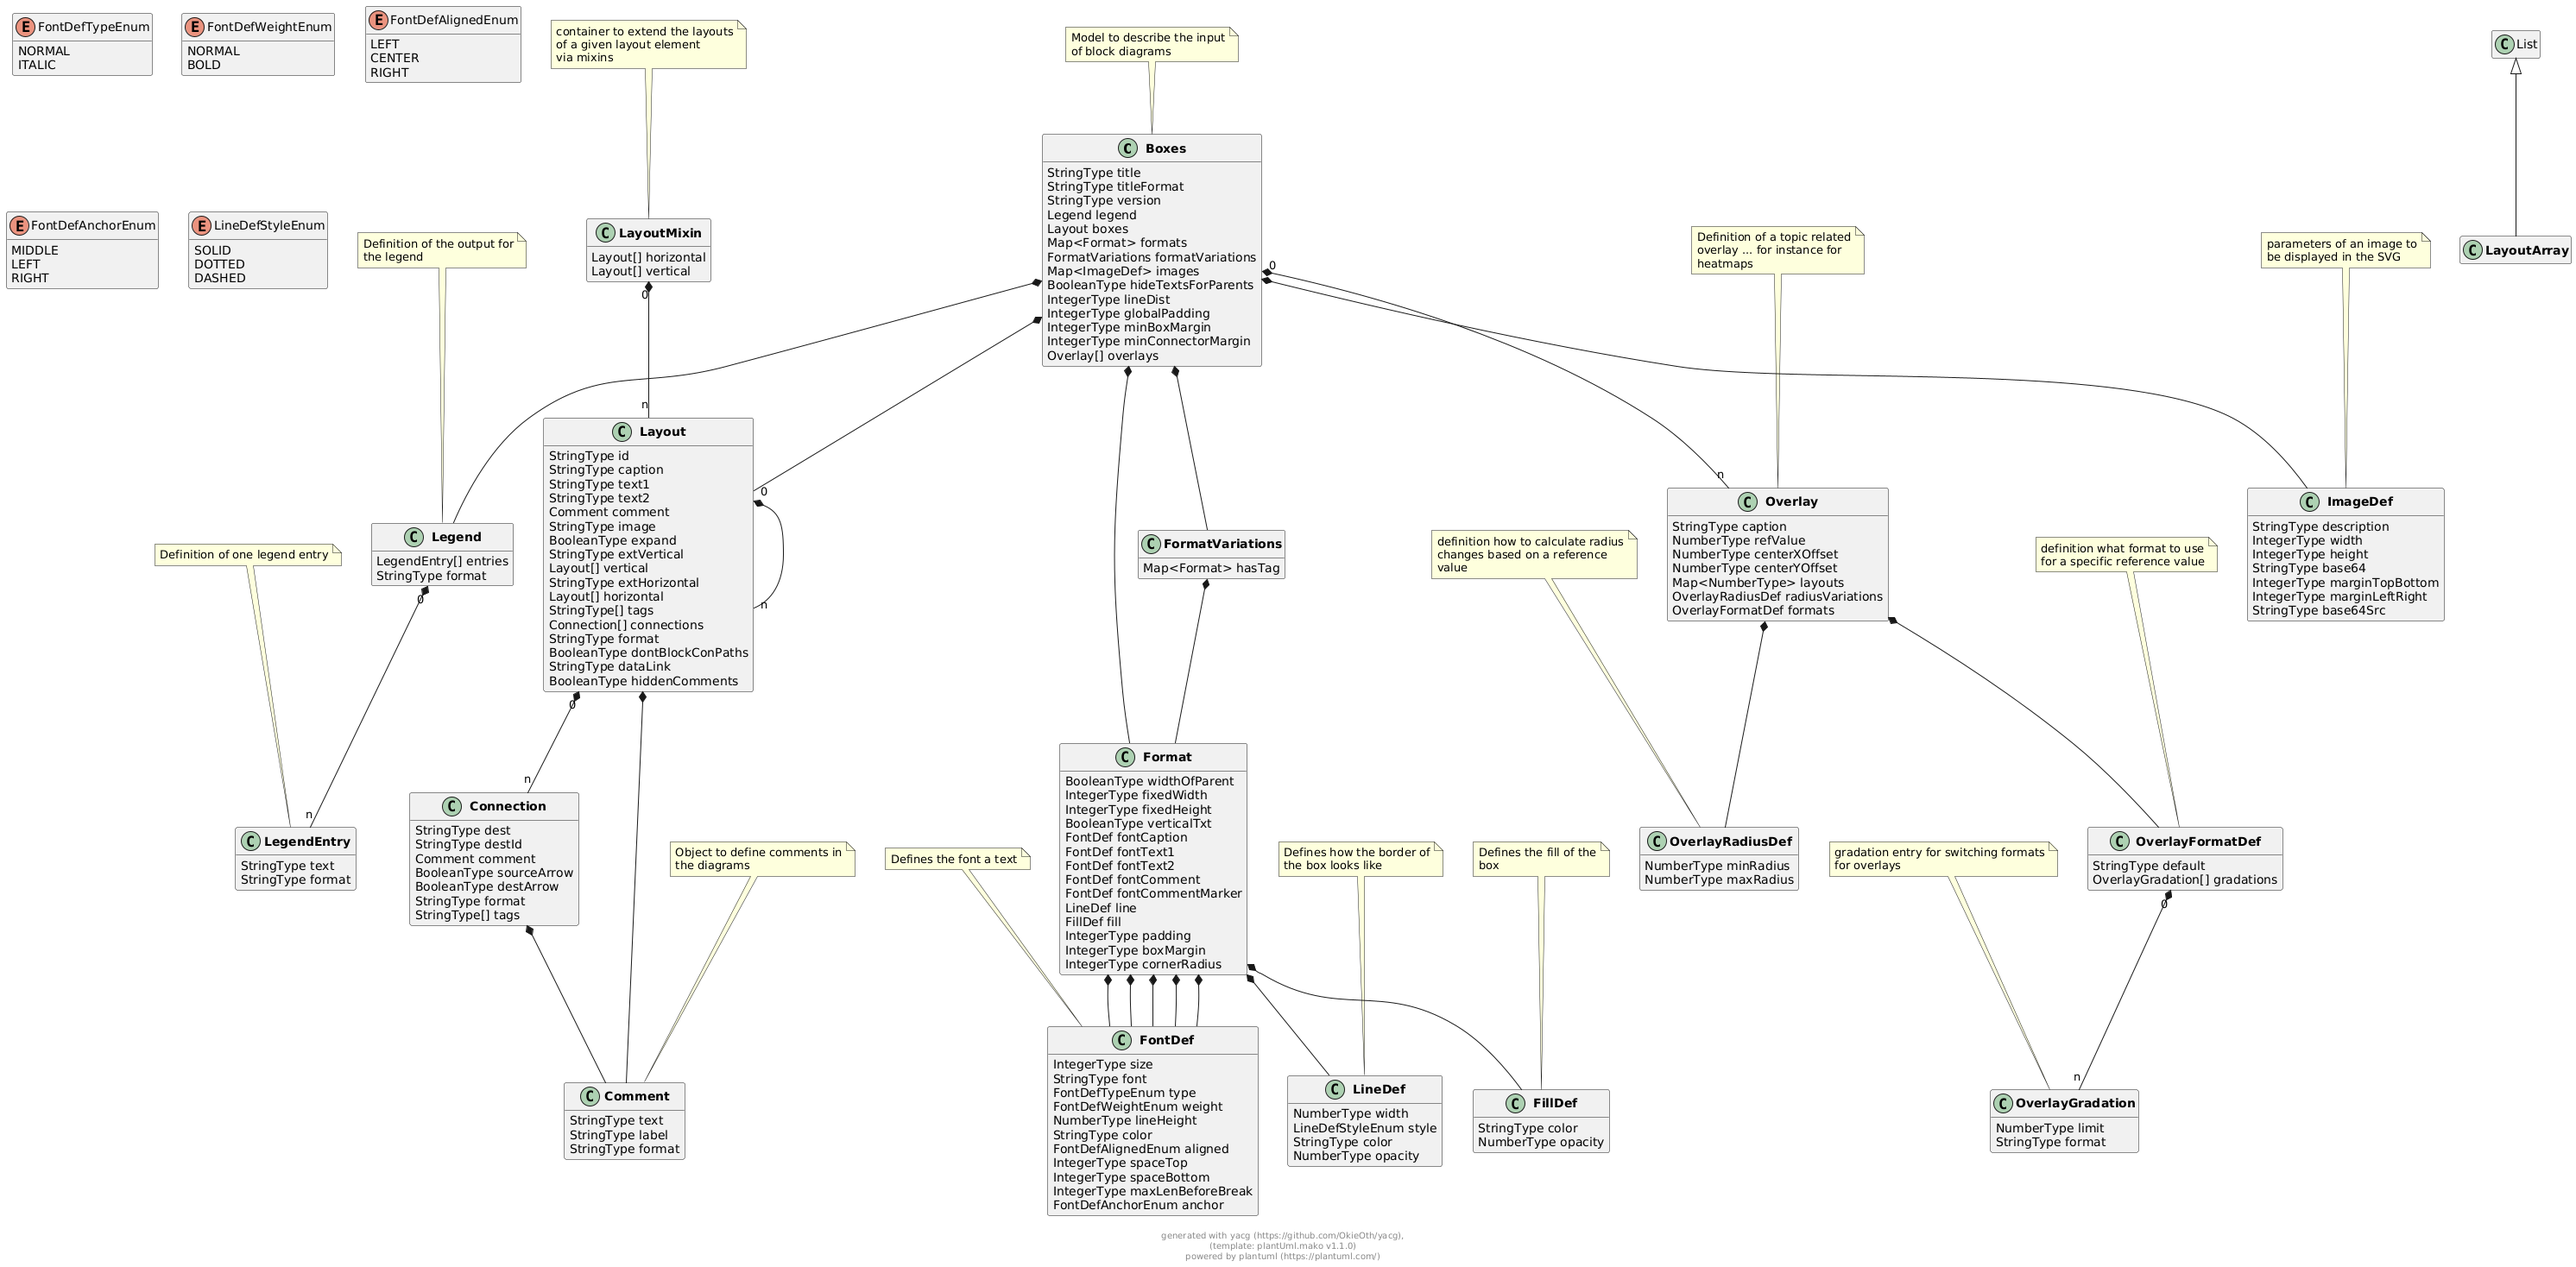
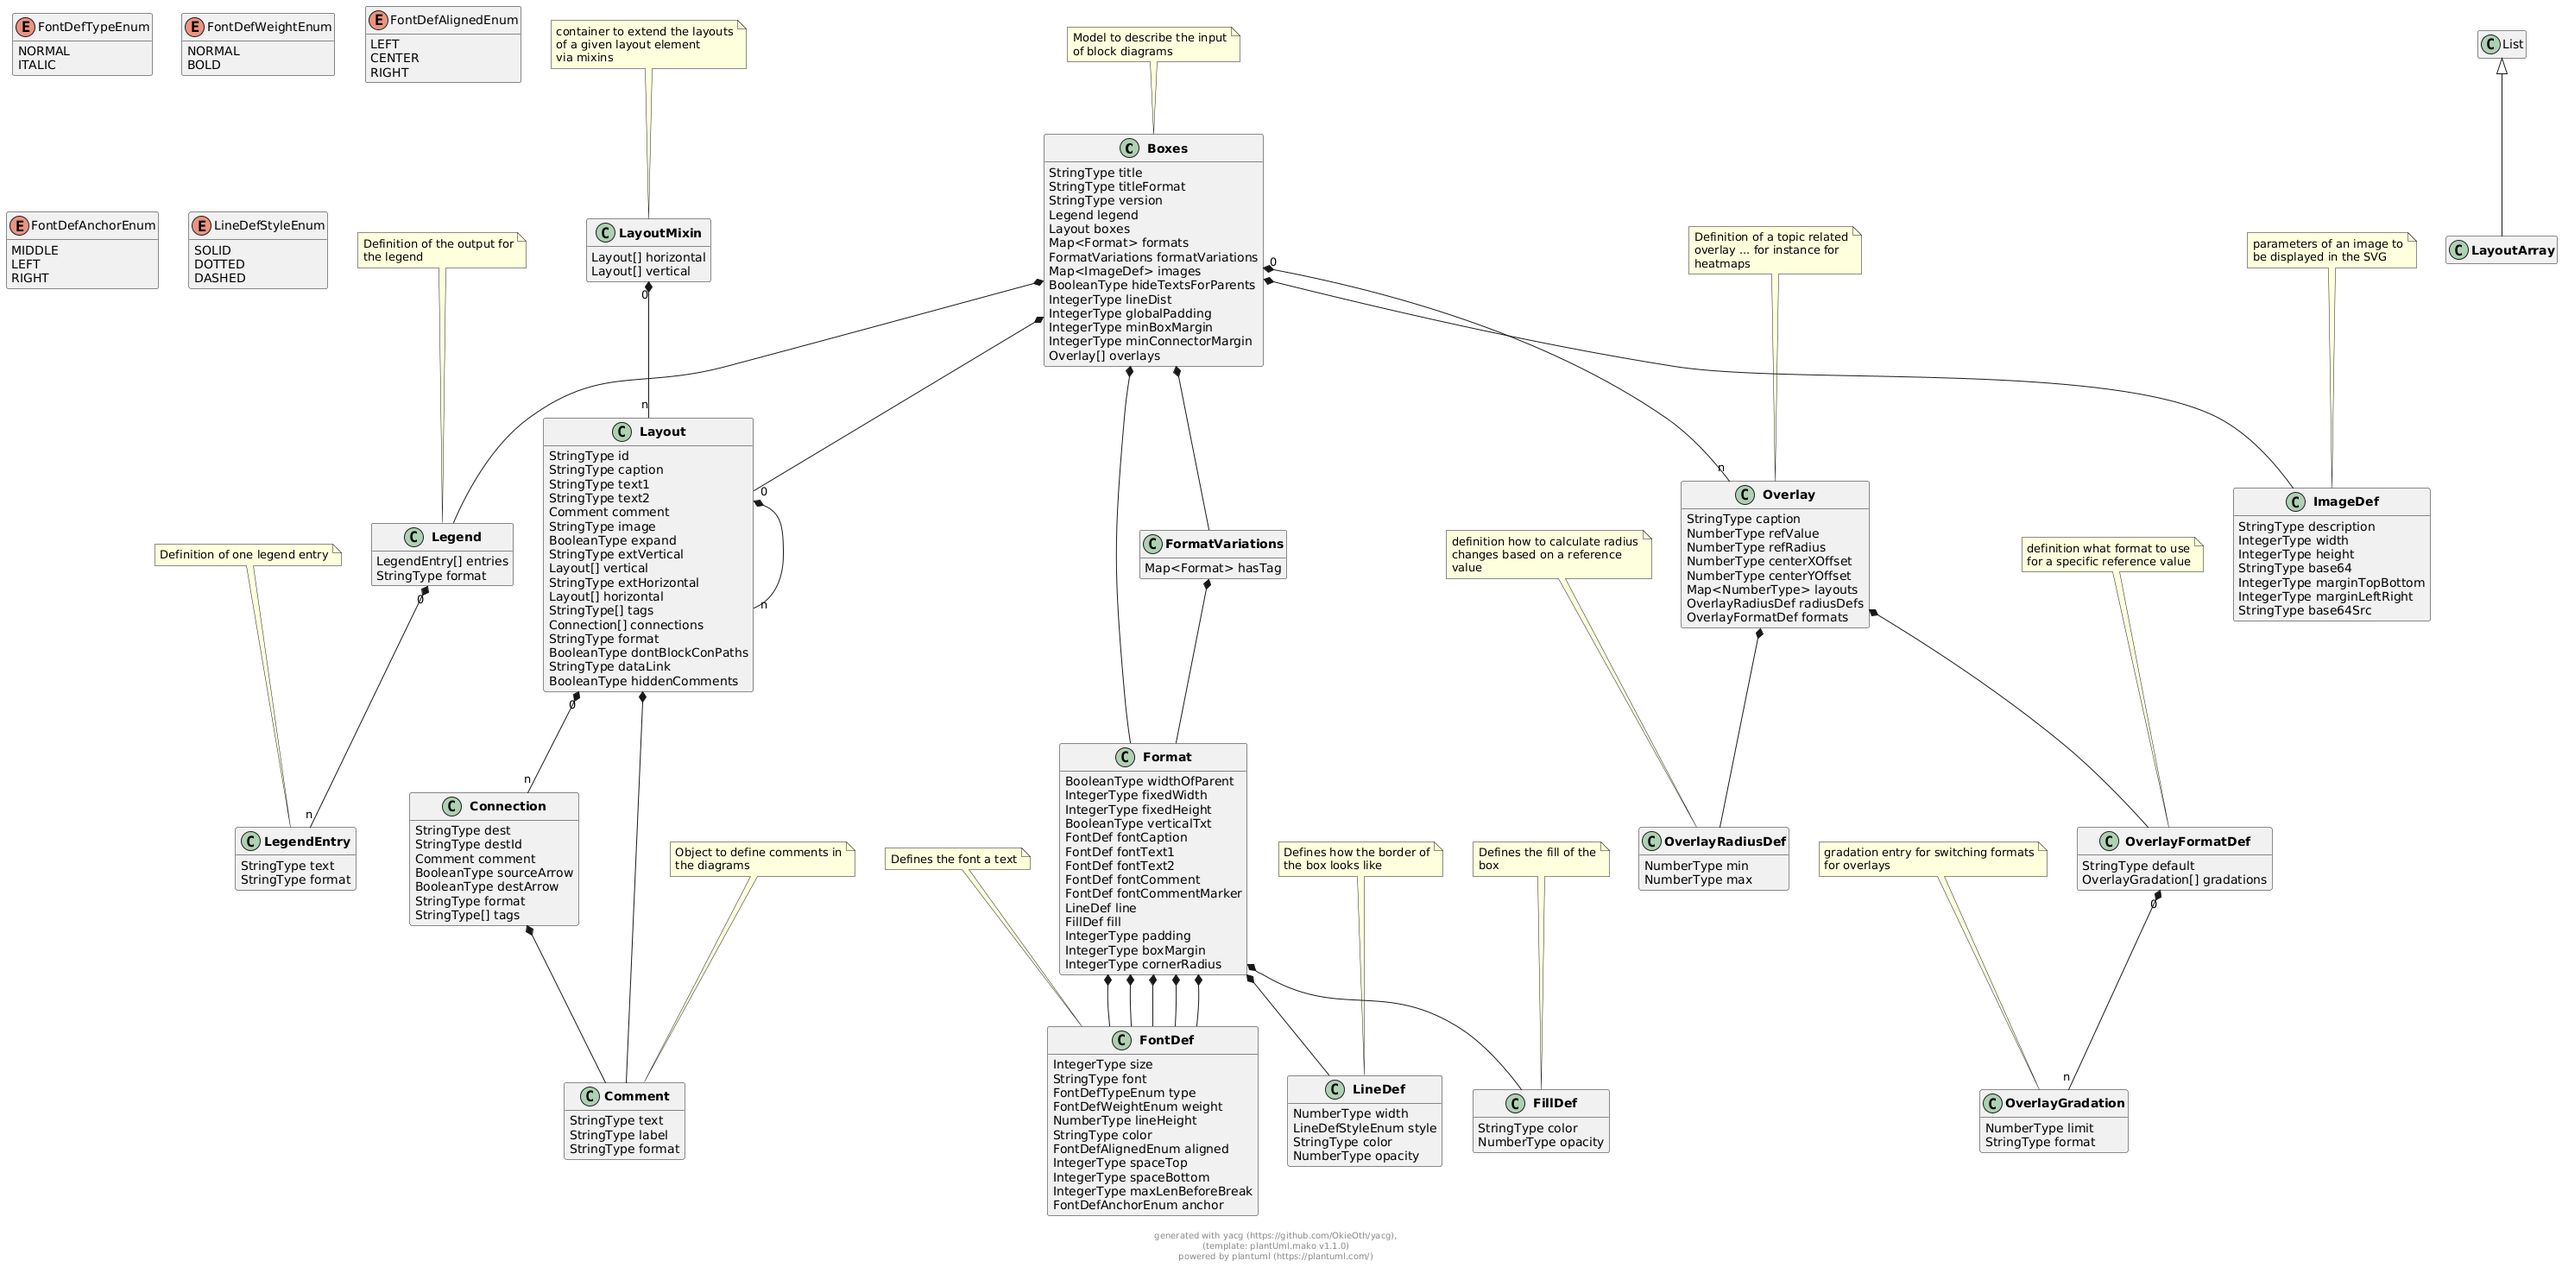
overlays wip: connection comment improvements - 1

diff --git a/pkg/types/boxes/comments.go b/pkg/types/boxes/comments.go
@@ -46,7 +46,7 @@ CONNECTIONS:
 					} else {
 						y = l.StartY + (diff / 4)
 					}
-					c := doc.newCommentContainer(c.Comment.Text, label, c.Comment.Format, x, y, false, dimensionsCalc, customMarker)
+					c := doc.newCommentContainer(c.Comment.Text, label, c.Comment.Format, x, y, false, dimensionsCalc, customMarker, &l.ConnectionIndex)
 					doc.Comments = append(doc.Comments, c)
 					continue CONNECTIONS
 				}
@@ -64,7 +64,7 @@ CONNECTIONS:
 					}
 					y := l.StartY
 
-					c := doc.newCommentContainer(c.Comment.Text, label, c.Comment.Format, x, y, false, dimensionsCalc, customMarker)
+					c := doc.newCommentContainer(c.Comment.Text, label, c.Comment.Format, x, y, false, dimensionsCalc, customMarker, &l.ConnectionIndex)
 					doc.Comments = append(doc.Comments, c)
 				}
 			}
@@ -119,7 +119,8 @@ func (doc *BoxesDocument) newCommentContainer(
 	x, y int,
 	moveMarker bool,
 	dimensionsCalc types.TextDimensionCalculator,
-	customMarker bool) CommentContainer {
+	customMarker bool,
+	connectionIndex *int) CommentContainer {
 	if moveMarker {
 		diff := doc.GlobalPadding + 2
 		x, y = x+diff, y+diff
@@ -147,6 +148,7 @@ func (doc *BoxesDocument) newCommentContainer(
 		MarkerTextWidth:  mw,
 		MarkerTextHeight: mh,
 		CustomMarker:     customMarker,
+		ConnectionIndex:  connectionIndex,
 	}
 }
 
@@ -164,7 +166,7 @@ func (doc *BoxesDocument) collectCommentsFromLayout(l *LayoutElement, dimensions
 	for i := range l.Comments {
 		comment := l.Comments[i]
 		label, customMarker := doc.newLabel(comment.Label)
-		c := doc.newCommentContainer(comment.Text, label, comment.Format, currentX, l.Y+4, false, dimensionsCalc, customMarker)
+		c := doc.newCommentContainer(comment.Text, label, comment.Format, currentX, l.Y+4, false, dimensionsCalc, customMarker, nil)
 		doc.Comments = append(doc.Comments, c)
 		currentX -= (2 * c.MarkerTextWidth) + doc.GlobalPadding + 2
 		if i > 7 {
@@ -177,7 +179,7 @@ func (doc *BoxesDocument) collectCommentsFromLayout(l *LayoutElement, dimensions
 			text = "Has comments in hidden childs"
 			doc.HasHiddenComments = true
 		}
-		c := doc.newCommentContainer(text, "...", nil, l.X, l.Y, false, dimensionsCalc, true)
+		c := doc.newCommentContainer(text, "...", nil, l.X, l.Y, false, dimensionsCalc, true, nil)
 		doc.Comments = append(doc.Comments, c)
 	}
 	doc.collectCommentsFromLayoutCont(l.Horizontal, dimensionsCalc)

diff --git a/pkg/types/boxes/boxes.go b/pkg/types/boxes/boxes.go
@@ -349,6 +349,9 @@ type Overlay struct {
     // Optional reference value that defines the reference value for this type of overlay
     RefValue float64  `yaml:"refValue"`
 
+    // radius for having a value of refValue
+    RefRadius *float64  `yaml:"refRadius,omitempty"`
+
     // in case of multiple overlays existing, this allows to define a percentage offset from the center-x of the related layout object
     CenterXOffset float64  `yaml:"centerXOffset"`
 
@@ -359,7 +362,7 @@ type Overlay struct {
     Layouts map[string]float64  `yaml:"layouts,omitempty"`
 
     // if this is configured the the radius for the layouts is in a percentage of the refValue
-    RadiusVariations *OverlayRadiusDef  `yaml:"radiusVariations,omitempty"`
+    RadiusDefs *OverlayRadiusDef  `yaml:"radiusDefs,omitempty"`
 
     Formats *OverlayFormatDef  `yaml:"formats,omitempty"`
 }
@@ -378,13 +381,14 @@ func CopyOverlay(src *Overlay) *Overlay {
     var ret Overlay
     ret.Caption = src.Caption
     ret.RefValue = src.RefValue
+    ret.RefRadius = src.RefRadius
     ret.CenterXOffset = src.CenterXOffset
     ret.CenterYOffset = src.CenterYOffset
     ret.Layouts = make(map[string]float64, 0)
     for k, v := range src.Layouts {
         ret.Layouts[k] = v
     }
-    ret.RadiusVariations = CopyOverlayRadiusDef(src.RadiusVariations)
+    ret.RadiusDefs = CopyOverlayRadiusDef(src.RadiusDefs)
     ret.Formats = CopyOverlayFormatDef(src.Formats)
 
     return &ret
@@ -524,10 +528,10 @@ func CopyLayoutMixin(src *LayoutMixin) *LayoutMixin {
 type OverlayRadiusDef struct {
 
     // minimal radius to use for the display
-    MinRadius float64  `yaml:"minRadius"`
+    Min float64  `yaml:"min"`
 
     // maximal radius to use for the display
-    MaxRadius float64  `yaml:"maxRadius"`
+    Max float64  `yaml:"max"`
 }
 
 
@@ -536,8 +540,8 @@ func CopyOverlayRadiusDef(src *OverlayRadiusDef) *OverlayRadiusDef {
         return nil
     }
     var ret OverlayRadiusDef
-    ret.MinRadius = src.MinRadius
-    ret.MaxRadius = src.MaxRadius
+    ret.Min = src.Min
+    ret.Max = src.Max
 
     return &ret
 }

diff --git a/pkg/types/boxes/boxesdoc.go b/pkg/types/boxes/boxesdoc.go
@@ -574,6 +574,9 @@ type CommentContainer struct {
 
     // true if a custom marker is used for this comment
     CustomMarker bool  `yaml:"customMarker"`
+
+    // in case this comment belongs to a connection, is here the connectionId stored
+    ConnectionIndex *int  `yaml:"connectionIndex,omitempty"`
 }
 
 
@@ -592,6 +595,7 @@ func CopyCommentContainer(src *CommentContainer) *CommentContainer {
     ret.TextWidth = src.TextWidth
     ret.TextHeight = src.TextHeight
     ret.CustomMarker = src.CustomMarker
+    ret.ConnectionIndex = src.ConnectionIndex
 
     return &ret
 }
@@ -620,7 +624,7 @@ type DocOverlay struct {
     Layouts map[string]OverlayEntry  `yaml:"layouts,omitempty"`
 
     // if this is configured the the radius for the layouts is in a percentage of the refValue
-    RadiusVariations *OverlayRadiusDef  `yaml:"radiusVariations,omitempty"`
+    RadiusDefs *OverlayRadiusDef  `yaml:"radiusDefs,omitempty"`
 
     Formats *OverlayFormatDef  `yaml:"formats,omitempty"`
 }
@@ -645,7 +649,7 @@ func CopyDocOverlay(src *DocOverlay) *DocOverlay {
     for k, v := range src.Layouts {
         ret.Layouts[k] = v
     }
-    ret.RadiusVariations = CopyOverlayRadiusDef(src.RadiusVariations)
+    ret.RadiusDefs = CopyOverlayRadiusDef(src.RadiusDefs)
     ret.Formats = CopyOverlayFormatDef(src.Formats)
 
     return &ret
@@ -863,7 +867,7 @@ type OverlayEntry struct {
 
     Value float64  `yaml:"value"`
 
-    Radius *float64  `yaml:"radius,omitempty"`
+    Radius float64  `yaml:"radius"`
 
     X int  `yaml:"x"`
 

diff --git a/pkg/boxesimpl/boxesdocfactory.go b/pkg/boxesimpl/boxesdocfactory.go
@@ -415,8 +415,32 @@ func initOverlays(b *boxes.Boxes, doc *boxes.BoxesDocument) error {
 			newOverlay.RefValue = o.RefValue
 			newOverlay.CenterXOffset = o.CenterXOffset
 			newOverlay.CenterYOffset = o.CenterYOffset
-			newOverlay.Formats = o.Formats
-			newOverlay.RadiusVariations = o.RadiusVariations
+			if o.Formats != nil {
+				newOverlay.Formats = o.Formats
+				slices.SortFunc(newOverlay.Formats.Gradations, func(c1, c2 boxes.OverlayGradation) int {
+					if c1.Limit == c2.Limit {
+						return 0
+					} else if c1.Limit < c2.Limit {
+						return -1
+					} else {
+						return 1
+					}
+				})
+			} else {
+				newOverlay.Formats = boxes.NewOverlayFormatDef()
+			}
+			max := float64(doc.Width / 4)
+			min := float64(0)
+			if o.RadiusDefs != nil && o.RadiusDefs.Max > 0 {
+				max = o.RadiusDefs.Max
+			}
+			if o.RadiusDefs != nil && o.RadiusDefs.Min > 0 {
+				max = o.RadiusDefs.Min
+			}
+			newOverlay.RadiusDefs = &boxes.OverlayRadiusDef{
+				Min: min,
+				Max: max, // max radius is when not set one quarter of the document width
+			}
 			for k, v := range o.Layouts {
 				newOverlay.Layouts[k] = boxes.OverlayEntry{
 					Value: v,

diff --git a/pkg/svg/svg.go b/pkg/svg/svg.go
@@ -310,6 +310,10 @@ func (svg *SVG) Circle(x int, y int, r int, s ...string) {
 	svg.printf(`<circle cx="%d" cy="%d" r="%d" %s`, x, y, r, endstyle(s, emptyclose))
 }
 
+func (svg *SVG) CircleWithClass(x int, y int, r int, className string, s ...string) {
+	svg.printf(`<circle class="%s" cx="%d" cy="%d" r="%d" %s`, className, x, y, r, endstyle(s, emptyclose))
+}
+
 // Ellipse centered at x,y, centered at x,y with radii w, and h, with optional style.
 // Standard Reference: http://www.w3.org/TR/SVG11/shapes.html#EllipseElement
 func (svg *SVG) Ellipse(x int, y int, w int, h int, s ...string) {
@@ -471,6 +475,12 @@ func (svg *SVG) TextWithId(id string, x int, y int, t string, s ...string) {
 
 func (svg *SVG) TextWithIdAndClass(id string, x int, y int, t, class string, s ...string) {
 	svg.printf(`<text id="%s" %s class="%s" %s`, id, loc(x, y), class, endstyle(s, ">"))
+	xml.Escape(svg.Writer, []byte(t))
+	svg.println(`</text>`)
+}
+
+func (svg *SVG) TextWithClass(x int, y int, t, class string, s ...string) {
+	svg.printf(`<text %s class="%s" %s`, loc(x, y), class, endstyle(s, ">"))
 	xml.Escape(svg.Writer, []byte(t))
 	svg.println(`</text>`)
 }

diff --git a/pkg/svgdrawing/svgdrawing.go b/pkg/svgdrawing/svgdrawing.go
@@ -575,11 +575,20 @@ func (d *SvgDrawing) DrawCircleWithBorder(x, y, radius int, fill *types.FillDef,
 }
 
 func (d *SvgDrawing) DrawCircleWithBorderAndText(text string, x, y, radius int, fill *types.FillDef, line *types.LineDef, font *types.FontDef) error {
+	return d.DrawCircleWithBorderTextAndClass(text, x, y, radius, fill, line, font, "")
+}
+
+func (d *SvgDrawing) DrawCircleWithBorderTextAndClass(text string, x, y, radius int, fill *types.FillDef, line *types.LineDef, font *types.FontDef, className string) error {
 	attr := d.getCircleStyle(fill, line)
-	d.canvas.Circle(x, y, radius, attr)
 	textFormat := d.textFormat(font)
 	textFormat += ";dominant-baseline: middle;"
-	d.canvas.Text(x, y, text, textFormat)
+	if className != "" {
+		d.canvas.CircleWithClass(x, y, radius, className, attr)
+		d.canvas.TextWithClass(x, y, text, className, textFormat)
+	} else {
+		d.canvas.Circle(x, y, radius, attr)
+		d.canvas.Text(x, y, text, textFormat)
+	}
 	return nil
 }
 

diff --git a/pkg/types/boxes/boxestype_impl.go b/pkg/types/boxes/boxestype_impl.go
@@ -523,7 +523,12 @@ func (doc *BoxesDocument) DrawComments(drawing types.Drawing, c types.TextDimens
 func (doc *BoxesDocument) drawCommentMarkers(drawing types.Drawing) error {
 	for i := range doc.Comments {
 		c := doc.Comments[i]
-		drawing.DrawCircleWithBorderAndText(c.Label, c.MarkerX, c.MarkerY, doc.CommentMarkerRadius, &c.Format.Fill, &c.Format.Line, &c.Format.FontMarker)
+		if c.ConnectionIndex != nil {
+			className := fmt.Sprintf("conLine_%d", *c.ConnectionIndex)
+			drawing.DrawCircleWithBorderTextAndClass(c.Label, c.MarkerX, c.MarkerY, doc.CommentMarkerRadius, &c.Format.Fill, &c.Format.Line, &c.Format.FontMarker, className)
+		} else {
+			drawing.DrawCircleWithBorderAndText(c.Label, c.MarkerX, c.MarkerY, doc.CommentMarkerRadius, &c.Format.Fill, &c.Format.Line, &c.Format.FontMarker)
+		}
 	}
 	return nil
 }

diff --git a/pkg/boxesimpl/boxesimpl.go b/pkg/boxesimpl/boxesimpl.go
@@ -46,6 +46,7 @@ func DrawBoxesFromFile(inputFile, outputFile string) error {
 	doc.ConnectBoxes()
 	doc.AdjustDocHeightTLegend(textDimensionCalulator)
 	doc.IncludeComments(textDimensionCalulator)
+	doc.IncludeOverlays(textDimensionCalulator)
 	output, err := os.Create(outputFile)
 	svgdrawing := svgdrawing.NewDrawing(output)
 	svgdrawing.Start(doc.Title, doc.Height, doc.Width)
@@ -308,6 +309,7 @@ func DrawBoxesFilteredComments(layout boxes.Boxes, defaultDepth int, expanded, b
 	doc.ConnectBoxes()
 	doc.AdjustDocHeightTLegend(textDimensionCalulator)
 	doc.IncludeComments(textDimensionCalulator)
+	doc.IncludeOverlays(textDimensionCalulator)
 	var svgBuilder strings.Builder
 	svgdrawing := svgdrawing.NewDrawing(&svgBuilder)
 	svgdrawing.Start(doc.Title, doc.Height, doc.Width)

diff --git a/pkg/types/formathelper.go b/pkg/types/formathelper.go
@@ -126,6 +126,23 @@ func InitLineDef(l *LineDef) *LineDef {
 
 }
 
+func InitLineDef2(cDef string, oDef float64) *LineDef {
+	wDef := 0.5
+	sDef := LineDefStyleEnum_solid
+
+	w := &wDef
+	o := &oDef
+	s := &sDef
+	c := &cDef
+
+	return &LineDef{
+		Width:   w,
+		Style:   s,
+		Opacity: o,
+		Color:   c,
+	}
+}
+
 func InitFillDef(l *FillDef) *FillDef {
 	cDef := "white"
 	oDef := 1.0
@@ -141,10 +158,17 @@ func InitFillDef(l *FillDef) *FillDef {
 			c = l.Color
 		}
 	}
-
 	return &FillDef{
 		Opacity: o,
 		Color:   c,
 	}
+}
 
+func InitFillDef2(cDef string, oDef float64) *FillDef {
+	o := &oDef
+	c := &cDef
+	return &FillDef{
+		Opacity: o,
+		Color:   c,
+	}
 }

diff --git a/pkg/types/drawing.go b/pkg/types/drawing.go
@@ -50,6 +50,7 @@ type Drawing interface {
 	DrawSolidCircle(x, y, radius int, color string) error
 	DrawCircleWithBorder(x, y, radius int, fill *FillDef, line *LineDef) error
 	DrawCircleWithBorderAndText(text string, x, y, radius int, fill *FillDef, line *LineDef, font *FontDef) error
+	DrawCircleWithBorderTextAndClass(text string, x, y, radius int, fill *FillDef, line *LineDef, font *FontDef, className string) error
 	DrawText(text string, x, y, width int, fontDef *FontDef) int
 	DrawVerticalText(text string, currentX, y, height int, fontDef *FontDef) int
 	Done() error

diff --git a/pkg/svgdrawing/svgdrawing_boxes_test.go b/pkg/svgdrawing/svgdrawing_boxes_test.go
@@ -113,6 +113,7 @@ func TestSvgWithConnections(t *testing.T) {
 			require.Nil(t, err)
 			doc.ConnectBoxes()
 			doc.IncludeComments(textDimensionCalulator)
+			doc.IncludeOverlays(textDimensionCalulator)
 			output, err := os.Create(test.outputFile)
 			require.Nil(t, err)
 			svgdrawing := svgdrawing.NewDrawing(output)
